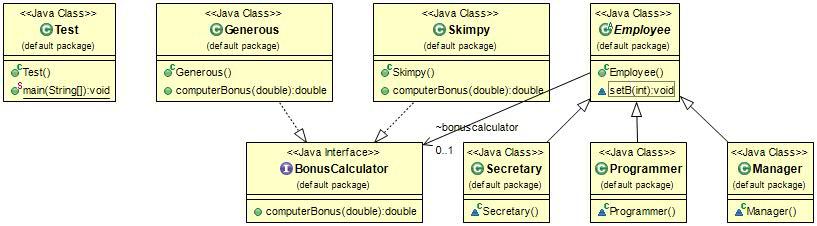
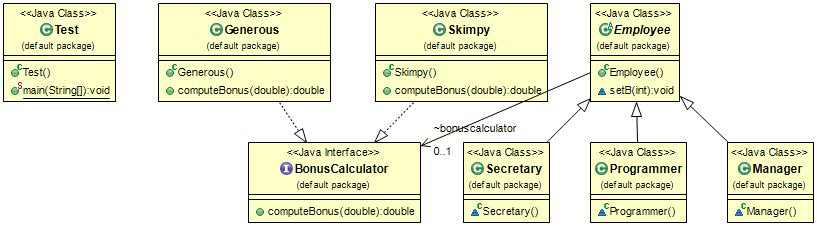
modify

diff --git a/src/Generous.java b/src/Generous.java
@@ -2,7 +2,7 @@
 public class Generous implements BonusCalculator {
 
 	@Override
-	public double computerBonus(double n) {
+	public double computeBonus(double n) {
 		// TODO Auto-generated method stub
 		return n*1.1;
 	}

diff --git a/src/Skimpy.java b/src/Skimpy.java
@@ -2,7 +2,7 @@
 public class Skimpy implements BonusCalculator {
 
 	@Override
-	public double computerBonus(double n) {
+	public double computeBonus(double n) {
 		// TODO Auto-generated method stub
 		return n*1.03;
 	}

diff --git a/src/BonusCalculator.java b/src/BonusCalculator.java
@@ -1,5 +1,5 @@
 
 public interface BonusCalculator {
-	double computerBonus(double n);
+	double computeBonus(double n);
 
 }
